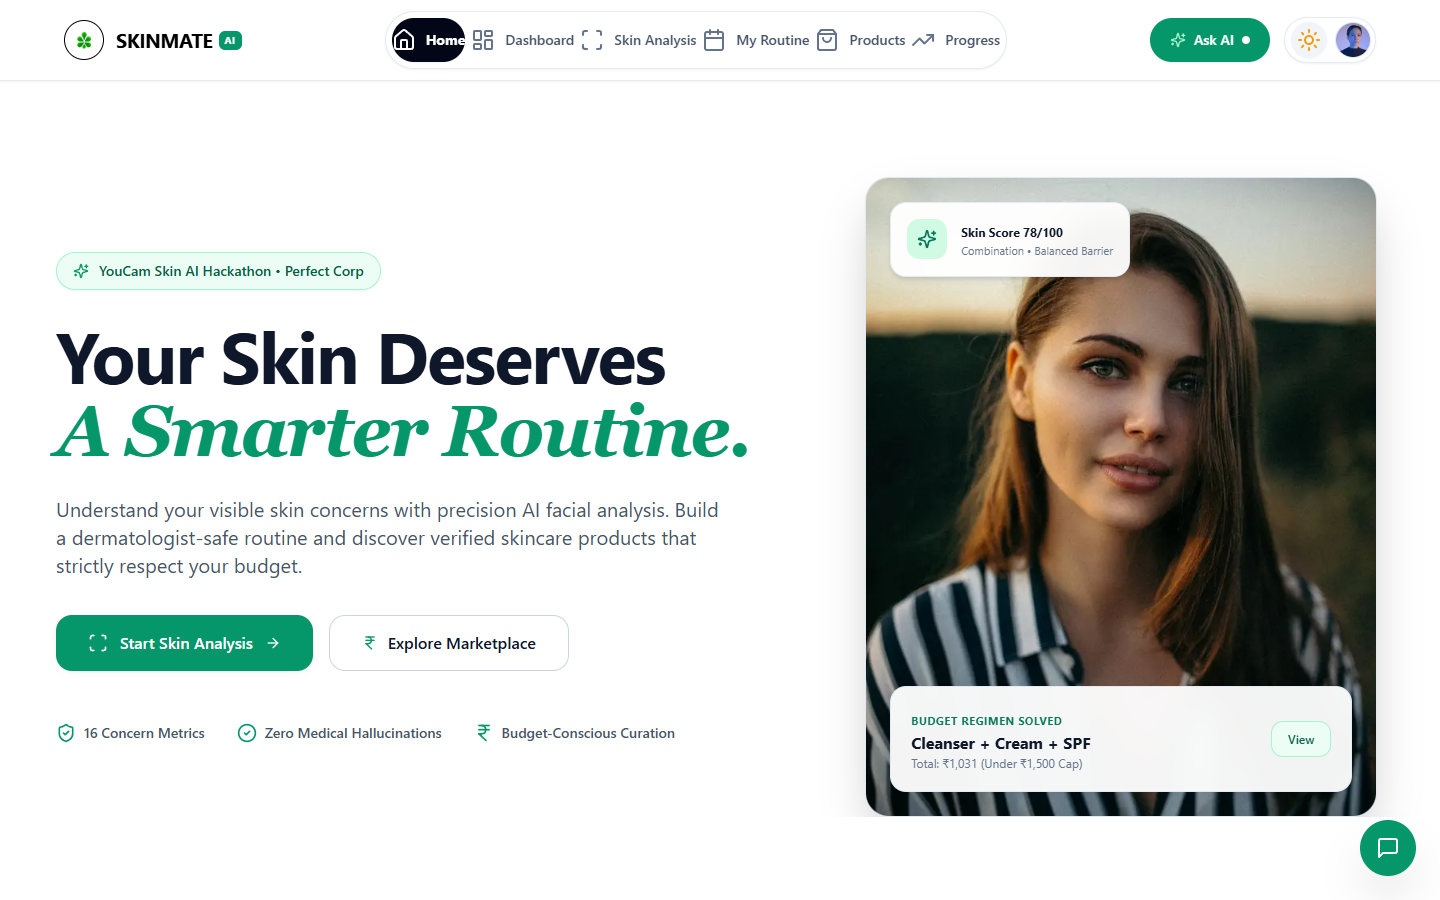
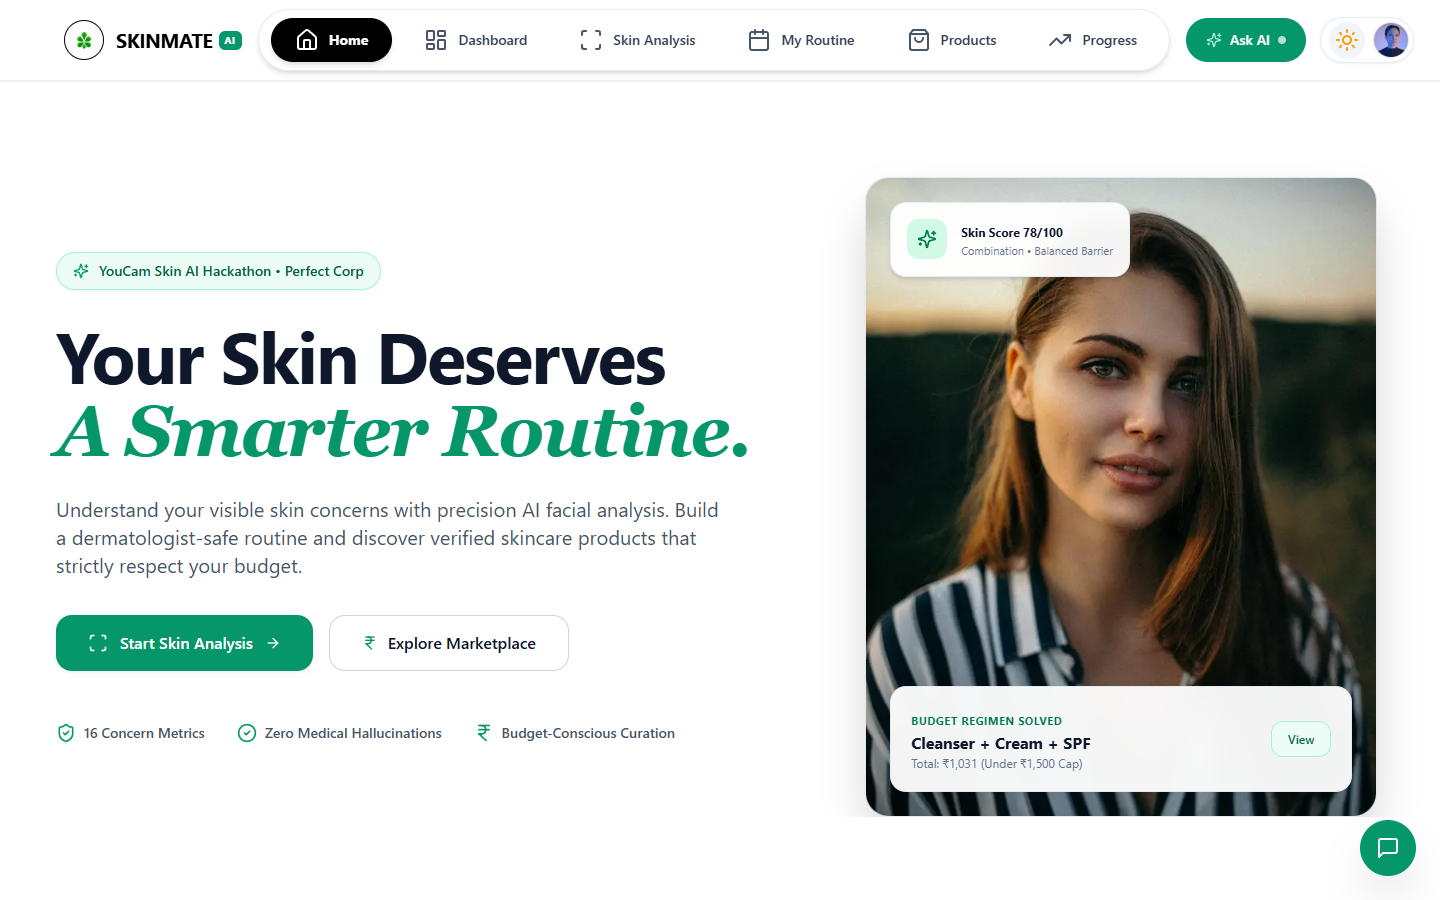
feat(ui): expand navbar menu width with generous padding, enforce pure black background and crisp white typography in dark mode

Changed region(s): [[0.1875, 0.0, 0.6875, 0.0933], [0.75, 0.0, 1.0, 0.0933]]

diff --git a/src/components/layout/Navbar.tsx b/src/components/layout/Navbar.tsx
@@ -23,17 +23,17 @@ export function Navbar({ onOpenChat }: { onOpenChat?: () => void }) {
   const [mobileMenuOpen, setMobileMenuOpen] = useState(false);
 
   return (
-    <header className="sticky top-0 z-40 w-full bg-white/95 dark:bg-slate-950/95 backdrop-blur-md border-b border-slate-200/80 dark:border-slate-800/80 shadow-2xs transition-colors duration-300">
+    <header className="sticky top-0 z-40 w-full bg-white/95 dark:bg-black/95 backdrop-blur-md border-b border-slate-200/80 dark:border-zinc-800 shadow-2xs transition-colors duration-300">
       {/* 100% Width Container */}
-      <div className="w-full px-4 sm:px-8 lg:px-12 xl:px-16 h-20 flex items-center justify-between gap-4">
+      <div className="w-full px-4 sm:px-8 lg:px-12 xl:px-16 h-20 sm:h-22 flex items-center justify-between gap-4">
         
-        {/* Left: Brand Logo with Circular Black Border & Transparent Emblem */}
+        {/* Left: Brand Logo with Circular Border & Transparent Emblem */}
         <Link href="/" className="group shrink-0">
           <Logo size="md" />
         </Link>
 
-        {/* Center: Bigger, Spacious Floating Pill Navbar with Home + Dashboard & Fully Rounded Buttons */}
-        <nav className="hidden xl:flex items-center gap-1.5 bg-white dark:bg-slate-900/90 p-1.5 rounded-full border border-slate-200/90 dark:border-slate-800 shadow-sm shrink-0">
+        {/* Center: Wider, Spacious Floating Pill Navbar with Home + Dashboard & Fully Rounded Buttons */}
+        <nav className="hidden lg:flex items-center gap-2 lg:gap-3 bg-white/95 dark:bg-zinc-900/90 px-3 py-2 rounded-full border border-slate-200/90 dark:border-zinc-800 shadow-md shrink-0 transition-colors duration-200">
           {NAV_LINKS.map((link) => {
             const Icon = link.icon;
             const isActive = pathname === link.href;
@@ -41,15 +41,16 @@ export function Navbar({ onOpenChat }: { onOpenChat?: () => void }) {
               <Link
                 key={link.href}
                 href={link.href}
+                data-active={isActive ? "true" : undefined}
                 className={cn(
-                  "flex items-center gap-2.5 px-4.5 py-2.5 rounded-full text-sm font-semibold transition-all duration-200 whitespace-nowrap",
+                  "flex items-center gap-2.5 px-5 py-2.5 rounded-full text-sm font-semibold transition-all duration-200 whitespace-nowrap",
                   isActive
-                    ? "bg-slate-950 dark:bg-white text-white dark:text-slate-950 shadow-sm font-bold"
-                    : "text-slate-600 dark:text-slate-300 hover:text-slate-950 dark:hover:text-white hover:bg-slate-100/80 dark:hover:bg-slate-800/80 font-medium"
+                    ? "bg-black dark:bg-white text-white dark:text-black shadow-md font-bold px-6 py-2.5"
+                    : "text-slate-700 dark:text-white hover:text-black dark:hover:text-white hover:bg-slate-100 dark:hover:bg-zinc-800 font-medium"
                 )}
               >
-                <Icon className={cn("h-4.5 w-4.5 shrink-0", isActive ? "text-white dark:text-slate-950" : "text-slate-500 dark:text-slate-400")} />
-                <span>{link.label}</span>
+                <Icon className={cn("h-4.5 w-4.5 shrink-0", isActive ? "text-white dark:text-black" : "text-slate-600 dark:text-white")} />
+                <span className={isActive ? "text-white dark:text-black" : "text-slate-700 dark:text-white"}>{link.label}</span>
               </Link>
             );
           })}
@@ -78,13 +79,13 @@ export function Navbar({ onOpenChat }: { onOpenChat?: () => void }) {
           )}
 
           {/* Connected Capsule: Dark/Light Mode Animated Toggle + Portrait Avatar */}
-          <div className="flex items-center gap-2 bg-white dark:bg-slate-900 border border-slate-200/90 dark:border-slate-800 rounded-full p-1 pl-1.5 shadow-sm">
+          <div className="flex items-center gap-2 bg-white dark:bg-zinc-900 border border-slate-200/90 dark:border-zinc-800 rounded-full p-1 pl-2 shadow-sm">
             <ThemeToggle />
 
             <Link
               href="/profile"
               aria-label="Profile and Settings"
-              className="relative h-9 w-9 rounded-full overflow-hidden border border-slate-200 dark:border-slate-700 hover:ring-2 hover:ring-emerald-500 transition-all shrink-0"
+              className="relative h-9 w-9 rounded-full overflow-hidden border border-slate-200 dark:border-zinc-700 hover:ring-2 hover:ring-emerald-500 transition-all shrink-0"
             >
               <Image
                 src="https://images.unsplash.com/photo-1534528741775-53994a69daeb?auto=format&fit=crop&w=120&q=80"
@@ -98,7 +99,7 @@ export function Navbar({ onOpenChat }: { onOpenChat?: () => void }) {
         </div>
 
         {/* Mobile menu trigger */}
-        <div className="flex xl:hidden items-center gap-2">
+        <div className="flex lg:hidden items-center gap-2">
           <ThemeToggle />
           {onOpenChat && (
             <button
@@ -112,7 +113,7 @@ export function Navbar({ onOpenChat }: { onOpenChat?: () => void }) {
           <button
             onClick={() => setMobileMenuOpen(!mobileMenuOpen)}
             aria-label="Toggle navigation menu"
-            className="p-2.5 rounded-full text-slate-800 dark:text-slate-200 hover:bg-slate-100 dark:hover:bg-slate-800 border border-slate-200 dark:border-slate-700"
+            className="p-2.5 rounded-full text-slate-800 dark:text-white hover:bg-slate-100 dark:hover:bg-zinc-800 border border-slate-200 dark:border-zinc-700"
           >
             {mobileMenuOpen ? <X className="h-5 w-5" /> : <Menu className="h-5 w-5" />}
           </button>

diff --git a/src/app/globals.css b/src/app/globals.css
@@ -7,12 +7,12 @@
     --font-sans: -apple-system, BlinkMacSystemFont, "Segoe UI", Roboto, "Helvetica Neue", Arial, sans-serif;
     --font-serif: "Playfair Display", Georgia, serif;
     --background: #FFFFFF;
-    --foreground: #0F172A;
+    --foreground: #000000;
   }
 
   html.dark {
-    --background: #090D16;
-    --foreground: #F8FAFC;
+    --background: #000000;
+    --foreground: #FFFFFF;
     color-scheme: dark;
   }
 
@@ -27,49 +27,141 @@
   }
 
   ::selection {
-    background-color: #86EFAC;
-    color: #14532D;
+    background-color: #16A34A;
+    color: #FFFFFF;
   }
 }
 
-/* Dark Mode Overrides for Cards, Modals and Background Elements */
+/* =========================================================
+   DARK MODE ENFORCEMENT: PURE BLACK BG & PURE WHITE FONT
+   ========================================================= */
+
+/* Main page background: Pure Black */
+html.dark,
+html.dark body,
+html.dark main,
+html.dark #main-content,
+html.dark .bg-canvas,
+html.dark .bg-canvas-soft {
+  background-color: #000000 !important;
+  color: #FFFFFF !important;
+}
+
+/* All text colors in dark mode: Pure White (No Grey Font) */
+html.dark,
+html.dark body,
+html.dark h1,
+html.dark h2,
+html.dark h3,
+html.dark h4,
+html.dark h5,
+html.dark h6,
+html.dark p,
+html.dark span:not(.text-emerald-400):not(.text-emerald-500):not(.text-emerald-600):not(.text-white):not(.text-amber-500):not(.dark\:text-black):not(.dark\:text-slate-950),
+html.dark label,
+html.dark li,
+html.dark a:not(.bg-emerald-600):not(.dark\:bg-white):not(.dark\:text-black),
+html.dark .text-slate-900,
+html.dark .text-slate-800,
+html.dark .text-slate-700,
+html.dark .text-slate-600,
+html.dark .text-slate-500,
+html.dark .text-slate-400,
+html.dark .text-content-primary,
+html.dark .text-content-muted,
+html.dark .text-content-subtle,
+html.dark .text-content-faint {
+  color: #FFFFFF !important;
+}
+
+/* Preserve black text on white active elements (e.g. Active Navbar Tab) */
+html.dark .dark\:text-black,
+html.dark .dark\:text-slate-950,
+html.dark [data-active="true"] {
+  color: #000000 !important;
+}
+html.dark .dark\:bg-white {
+  background-color: #FFFFFF !important;
+}
+
+/* Card, Modals & Surface containers in dark mode */
 html.dark .bg-white {
-  background-color: #0F172A !important;
-  color: #F8FAFC !important;
+  background-color: #0A0A0A !important;
+  color: #FFFFFF !important;
+  border-color: #27272A !important;
+}
+
+html.dark .bg-white\/95,
+html.dark .bg-white\/90,
+html.dark .bg-white\/80 {
+  background-color: rgba(10, 10, 10, 0.95) !important;
+  color: #FFFFFF !important;
 }
 
 html.dark .bg-slate-50,
 html.dark .bg-slate-50\/70,
-html.dark .bg-slate-50\/90 {
-  background-color: #090D16 !important;
+html.dark .bg-slate-50\/90,
+html.dark .bg-slate-100 {
+  background-color: #050505 !important;
+  color: #FFFFFF !important;
+  border-color: #27272A !important;
 }
 
 html.dark .bg-surface-subtle {
-  background-color: #1E293B !important;
+  background-color: #121214 !important;
 }
 
+/* Borders in dark mode */
 html.dark .border-slate-200,
 html.dark .border-slate-200\/80,
 html.dark .border-slate-200\/90,
-html.dark .border-slate-100 {
-  border-color: #1E293B !important;
+html.dark .border-slate-300,
+html.dark .border-slate-100,
+html.dark .border-border-subtle {
+  border-color: #27272A !important;
 }
 
-html.dark .text-slate-900,
-html.dark .text-slate-800 {
-  color: #F8FAFC !important;
+/* Input & Select fields in dark mode */
+html.dark input,
+html.dark select,
+html.dark textarea {
+  background-color: #121214 !important;
+  color: #FFFFFF !important;
+  border-color: #27272A !important;
 }
 
-html.dark .text-slate-600,
-html.dark .text-slate-500 {
-  color: #94A3B8 !important;
+/* Success Green & Accent Brand Colors in dark mode */
+html.dark .text-emerald-600,
+html.dark .text-emerald-500,
+html.dark .text-emerald-400 {
+  color: #22C55E !important;
 }
 
+html.dark .bg-emerald-50,
+html.dark .bg-emerald-100 {
+  background-color: rgba(34, 197, 94, 0.12) !important;
+  border-color: rgba(34, 197, 94, 0.3) !important;
+  color: #22C55E !important;
+}
+
+html.dark .bg-blue-50,
+html.dark .bg-blue-100 {
+  background-color: rgba(37, 99, 235, 0.12) !important;
+  border-color: rgba(37, 99, 235, 0.3) !important;
+  color: #60A5FA !important;
+}
+
+html.dark .text-blue-600,
+html.dark .text-blue-500 {
+  color: #60A5FA !important;
+}
+
+/* Shadows in dark mode */
 html.dark .shadow-card,
 html.dark .shadow-sm,
 html.dark .shadow-md,
 html.dark .shadow-xl {
-  box-shadow: 0 4px 25px -4px rgba(0, 0, 0, 0.5) !important;
+  box-shadow: 0 4px 25px -4px rgba(0, 0, 0, 0.8) !important;
 }
 
 /* Custom subtle scrollbar */
@@ -81,14 +173,14 @@ html.dark .shadow-xl {
   background: #F1F5F9;
 }
 html.dark ::-webkit-scrollbar-track {
-  background: #0F172A;
+  background: #000000;
 }
 ::-webkit-scrollbar-thumb {
   background: #CBD5E1;
   border-radius: 9999px;
 }
 html.dark ::-webkit-scrollbar-thumb {
-  background: #334155;
+  background: #27272A;
 }
 ::-webkit-scrollbar-thumb:hover {
   background: #16A34A;

diff --git a/src/app/layout.tsx b/src/app/layout.tsx
@@ -29,11 +29,11 @@ export default function RootLayout({
           }}
         />
       </head>
-      <body className="min-h-screen flex flex-col bg-canvas text-content-primary antialiased selection:bg-brand-sage-100 selection:text-brand-sage-800">
+      <body className="min-h-screen flex flex-col bg-white dark:bg-black text-slate-900 dark:text-white antialiased selection:bg-emerald-100 selection:text-emerald-800 transition-colors duration-300">
         {/* Accessible Skip Link */}
         <a
           href="#main-content"
-          className="sr-only focus:not-sr-only focus:fixed focus:top-4 focus:left-4 focus:z-50 focus:px-4 focus:py-2 focus:bg-white focus:text-brand-sage-700 focus:rounded-xl focus:shadow-lg focus:border focus:border-border-subtle"
+          className="sr-only focus:not-sr-only focus:fixed focus:top-4 focus:left-4 focus:z-50 focus:px-4 focus:py-2 focus:bg-white focus:text-emerald-700 focus:rounded-xl focus:shadow-lg focus:border focus:border-slate-200"
         >
           Skip to main content
         </a>
@@ -42,7 +42,7 @@ export default function RootLayout({
         <Navbar onOpenChat={() => setChatOpen(true)} />
 
         {/* Main Content Area */}
-        <main id="main-content" className="flex-1">
+        <main id="main-content" className="flex-1 bg-white dark:bg-black transition-colors duration-300">
           {children}
         </main>
 

diff --git a/src/components/ui/Logo.tsx b/src/components/ui/Logo.tsx
@@ -23,9 +23,9 @@ export function Logo({
 
   return (
     <div className={`flex items-center gap-3 ${className}`}>
-      {/* Circular rounded container with black border and transparent bg */}
+      {/* Circular rounded container with border and transparent bg */}
       <div
-        className={`relative ${dimensions.box} rounded-full ${dimensions.border} border-black bg-transparent flex items-center justify-center p-1 shrink-0 transition-transform group-hover:scale-105`}
+        className={`relative ${dimensions.box} rounded-full ${dimensions.border} border-black dark:border-white bg-transparent flex items-center justify-center p-1 shrink-0 transition-transform group-hover:scale-105`}
       >
         <Image
           src="/skinmate-logo.png"
@@ -38,7 +38,7 @@ export function Logo({
       </div>
       {showText && (
         <div className={`flex items-center gap-1.5 ${textClassName}`}>
-          <span className={`font-sans font-bold ${dimensions.title} tracking-tight text-black`}>
+          <span className={`font-sans font-bold ${dimensions.title} tracking-tight text-black dark:text-white transition-colors duration-200`}>
             SKINMATE
           </span>
           <span className="text-[10px] px-1.5 py-0.5 rounded-md bg-emerald-600 text-white font-sans uppercase font-bold tracking-wider">

diff --git a/README.md b/README.md
@@ -35,8 +35,10 @@ Skincare shopping is notoriously confusing. Consumers are bombarded by thousands
 
 <div align="center">
 
-### 🌟 Hero & Experience Overview
-![SKINMATE AI Hero Overview](assets/screenshots/hero-preview.png)
+### 🌟 Hero & Experience Overview (Light & Dark Modes)
+![SKINMATE AI Hero Overview (Light Mode)](assets/screenshots/hero-preview.png)
+
+![SKINMATE AI Obsidian Dark Mode](assets/screenshots/dark-preview.png)
 
 ### 📊 Personal Skin Intelligence Dashboard
 ![Skin Diagnostic Radial & Heatmap Overlays](assets/screenshots/dashboard-preview.png)
